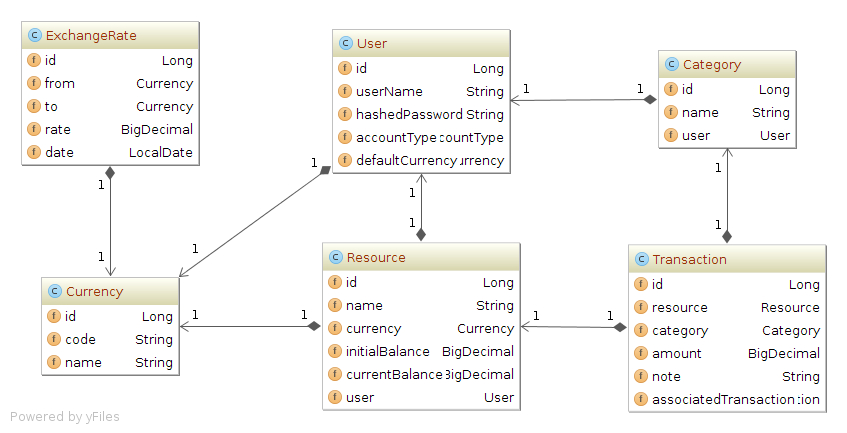
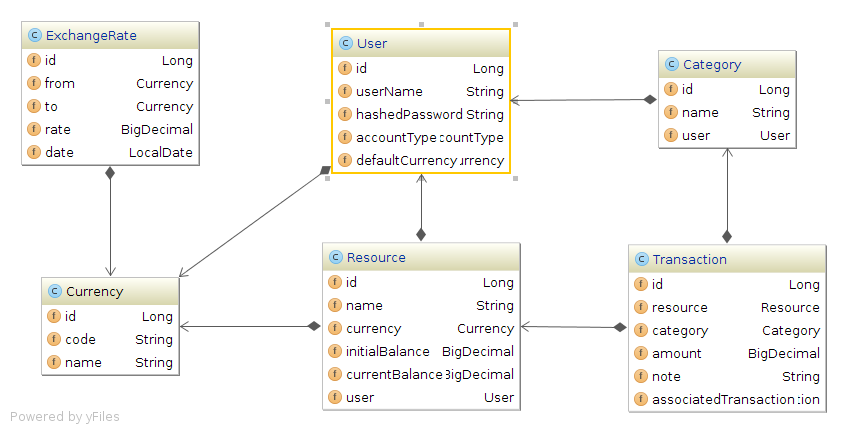
Update entity columns and change UML

diff --git a/perfin-model/src/main/java/com/github/perfin/model/entity/User.java b/perfin-model/src/main/java/com/github/perfin/model/entity/User.java
@@ -2,10 +2,7 @@ package com.github.perfin.model.entity;
 
 import com.github.perfin.model.type.AccountType;
 
-import javax.persistence.Column;
-import javax.persistence.Entity;
-import javax.persistence.GeneratedValue;
-import javax.persistence.Id;
+import javax.persistence.*;
 import java.io.Serializable;
 
 @Entity
@@ -16,16 +13,17 @@ public class User implements Serializable {
     @Column
     private Long id;
 
-    @Column
+    @Column(nullable = false, unique = true)
     private String userName;
 
-    @Column
+    @Column(nullable = false)
     private String hashedPassword;
 
-    @Column
+    @Enumerated(EnumType.ORDINAL)
+    @Column(nullable = false)
     private AccountType accountType;
 
-    @Column
+    @Column(nullable = false)
     private Currency defaultCurrency;
 
     public Long getId() {

diff --git a/perfin-model/src/main/java/com/github/perfin/model/entity/Resource.java b/perfin-model/src/main/java/com/github/perfin/model/entity/Resource.java
@@ -15,19 +15,19 @@ public class Resource implements Serializable {
     @Column
     private Long id;
 
-    @Column
+    @Column(nullable = false)
     private String name;
 
-    @Column
+    @Column(nullable = false)
     private Currency currency;
 
-    @Column
+    @Column(nullable = false)
     private BigDecimal initialBalance;
 
-    @Column
+    @Column(nullable = false)
     private BigDecimal currentBalance;
 
-    @Column
+    @Column(nullable = false)
     private User user;
 
     public Long getId() {

diff --git a/perfin-model/src/main/java/com/github/perfin/model/entity/ExchangeRate.java b/perfin-model/src/main/java/com/github/perfin/model/entity/ExchangeRate.java
@@ -16,16 +16,16 @@ public class ExchangeRate implements Serializable {
     @Column
     private Long id;
 
-    @Column
+    @Column(nullable = false)
     private Currency from;
 
-    @Column
+    @Column(nullable = false)
     private Currency to;
 
-    @Column
+    @Column(nullable = false)
     private BigDecimal rate;
 
-    @Column
+    @Column(nullable = false)
     private LocalDate date;
 
     public Long getId() {

diff --git a/perfin-model/src/main/java/com/github/perfin/model/entity/Transaction.java b/perfin-model/src/main/java/com/github/perfin/model/entity/Transaction.java
@@ -15,13 +15,13 @@ public class Transaction implements Serializable {
     @Column
     private Long id;
 
-    @Column
+    @Column(nullable = false)
     private Resource resource;
 
-    @Column
+    @Column(nullable = false)
     private Category category;
 
-    @Column
+    @Column(nullable = false)
     private BigDecimal amount;
 
     @Column

diff --git a/perfin-model/src/main/java/com/github/perfin/model/entity/Category.java b/perfin-model/src/main/java/com/github/perfin/model/entity/Category.java
@@ -14,10 +14,10 @@ public class Category implements Serializable {
     @Column
     private Long id;
 
-    @Column
+    @Column(nullable = false)
     private String name;
 
-    @Column
+    @Column(nullable = false)
     private User user;
 
     public Long getId() {
